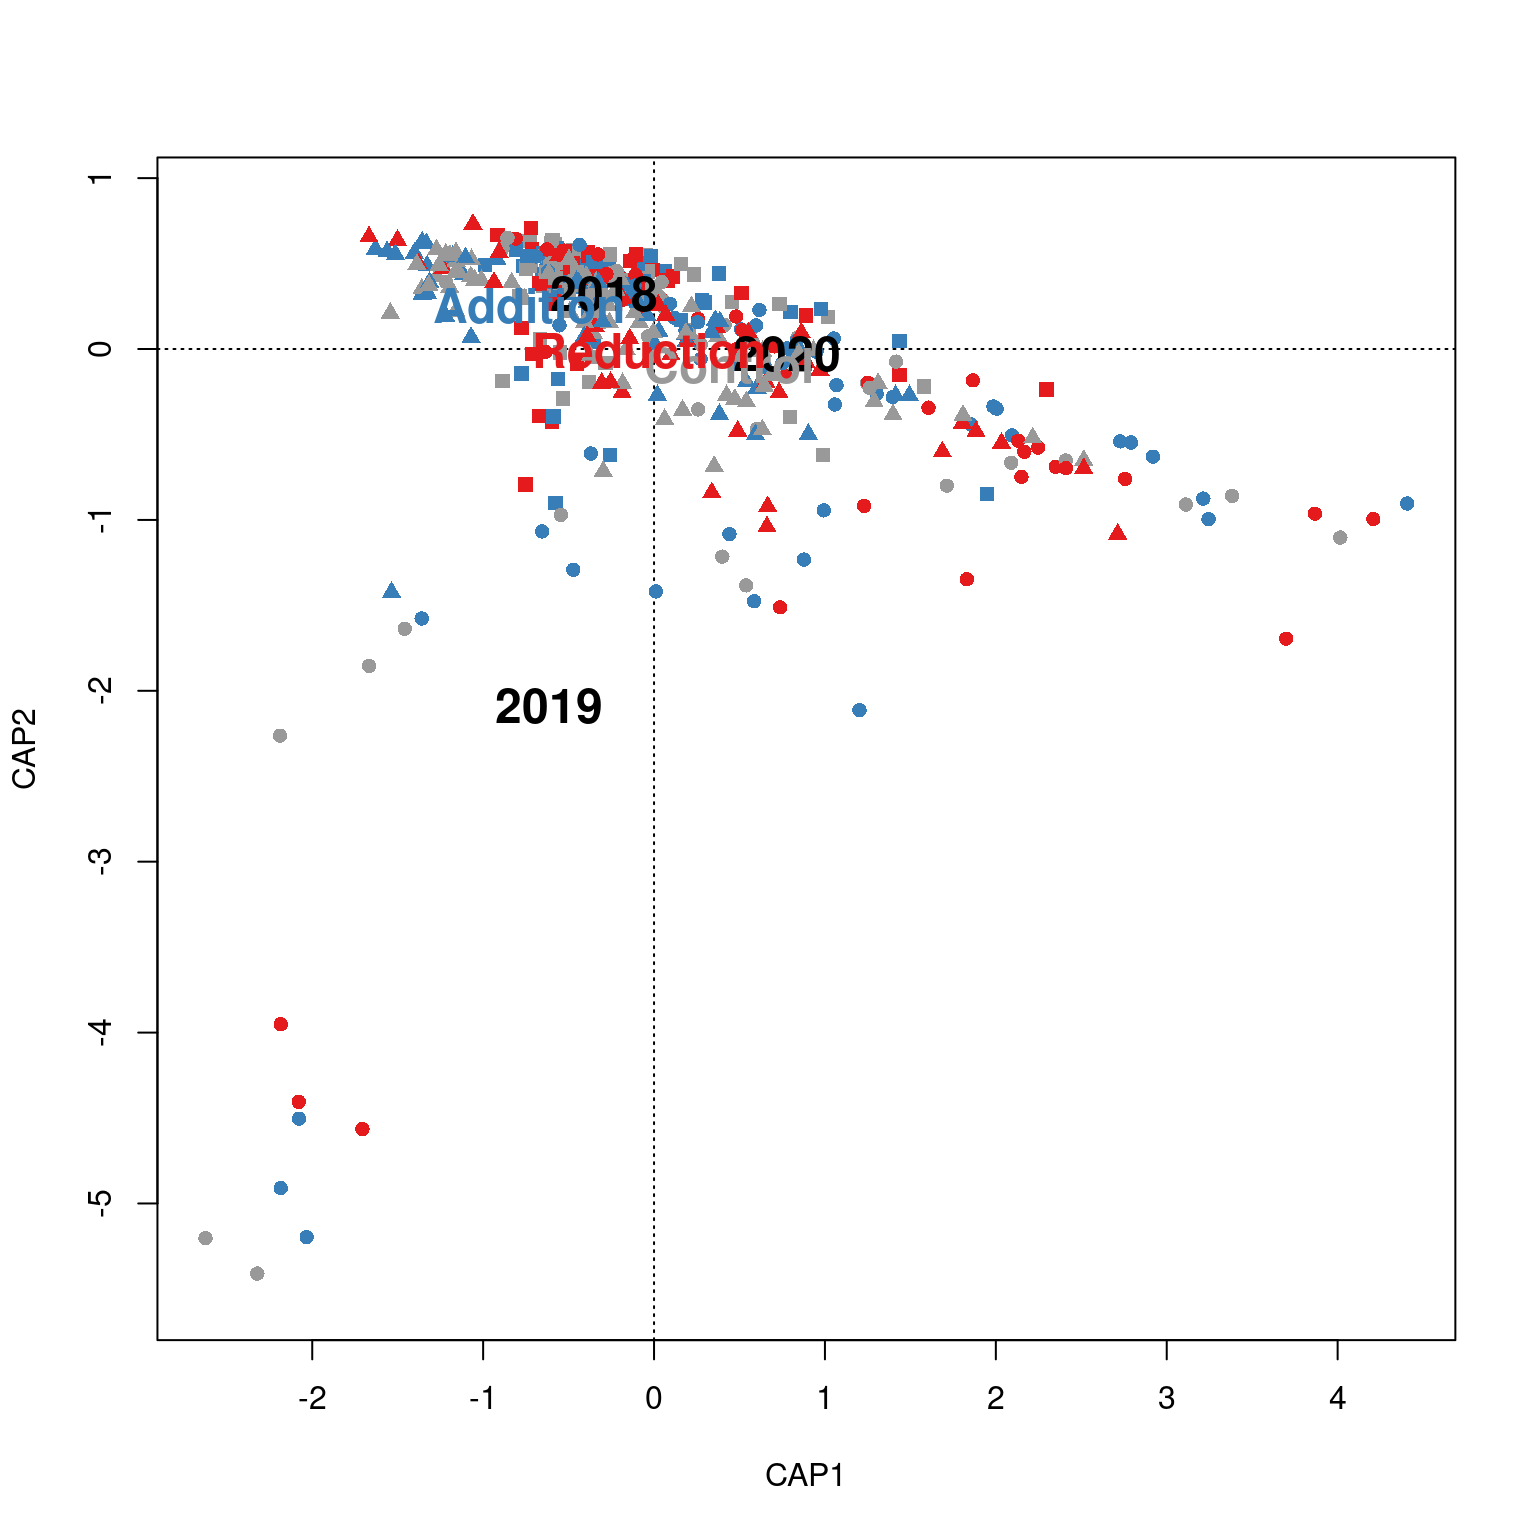
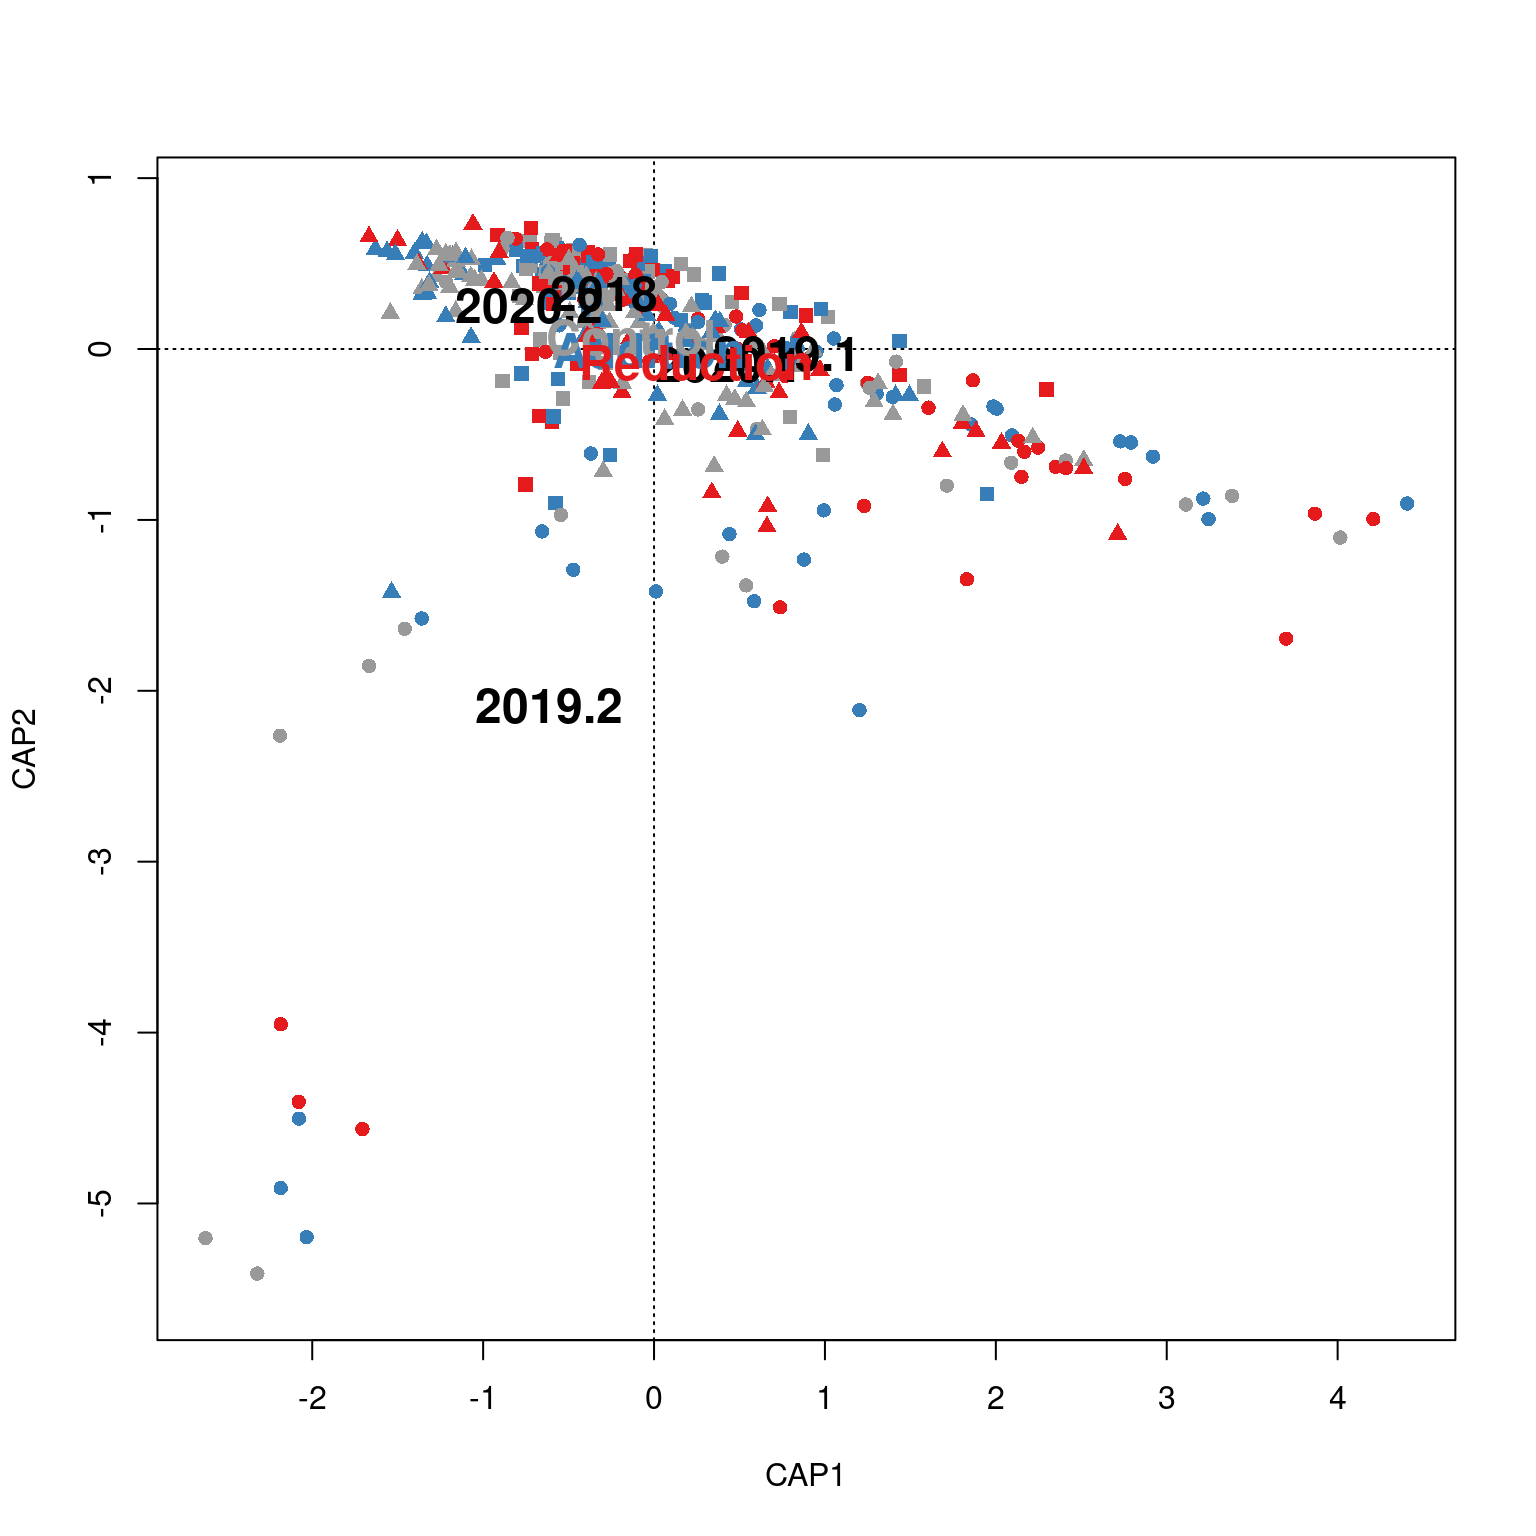
Split up selection gradients by year and water treatment

Changed region(s): [[0.2812, 0.1875, 0.5625, 0.25], [0.3125, 0.4375, 0.4062, 0.4688]]

diff --git a/maxfield_volatiles2020.html b/maxfield_volatiles2020.html
@@ -1010,7 +1010,7 @@ Signif. codes:  0 &#39;***&#39; 0.001 &#39;**&#39; 0.01 &#39;*&#39; 0.05 &#39;.&
 <pre class="r"><code>scents.cap &lt;- capscale(sqrt(vols.good) ~ year.cluster + water, data=volsmeta)
 plot(scents.cap, type=&quot;n&quot;)
 points(scents.cap, display = &quot;sites&quot;, col=water_pal[volsmeta$water], pch=as.integer(volsmeta$year)+14)
-text(scents.cap, display=&quot;cn&quot;, labels=c(2018:2020, names(water_pal)), col=c(rep(&quot;black&quot;,3),water_pal), font=2, cex=1.5)</code></pre>
+text(scents.cap, display=&quot;cn&quot;, labels=c(unique(volsmeta$year.cluster), names(water_pal)), col=c(rep(&quot;black&quot;,5),water_pal), font=2, cex=1.5)</code></pre>
 <p><img src="images_volatiles2020/cap-1.png" width="768" /></p>
 <pre class="r"><code>plot(scents.cap, type=&quot;n&quot;)
 text(scents.cap, display=&quot;species&quot;, col=&quot;black&quot;, cex=0.5)</code></pre>
@@ -1117,7 +1117,7 @@ Signif. codes:  0 &#39;***&#39; 0.001 &#39;**&#39; 0.01 &#39;*&#39; 0.05 &#39;.&
   labs(x=&quot;Emissions&quot;, y=paste(traitnames.units[&quot;prop_infested&quot;], &quot;(&gt;4 fruits)&quot;), color=&quot;Year&quot;)+
   theme_bw()+scale_color_manual(values=year_pal) +
   scale_x_sqrt()</code></pre>
-<p><img src="images_volatiles2020/flies-1.png" width="768" /></p>
+<p><img src="images_volatiles2020/flies-1.png" width="1536" /></p>
 </div>
 <div id="selection-gradients" class="section level2">
 <h2>Selection gradients</h2>
@@ -1129,36 +1129,21 @@ Signif. codes:  0 &#39;***&#39; 0.001 &#39;**&#39; 0.01 &#39;*&#39; 0.05 &#39;.&
   data.frame(B = E %*% slopes$A,
              SE = sqrt(E ^ 2 %*% slopes$SE ^ 2)) %&gt;% rownames_to_column(&quot;trait&quot;)
 }
-plot_beta &lt;- function(beta) {
-  beta %&gt;% mutate(trait = fct_reorder(trait, B)) %&gt;% 
-    ggplot(aes(y=trait, x = B, xmin=B-SE, xmax=B+SE)) + 
-    geom_vline(xintercept=0)+ geom_pointrange() + 
-    labs(x = &quot;Selection gradient (beta) estimated from gradients on PCs&quot;, y = &quot;Trait&quot;)
-}
 
-vols.std &lt;- bind_cols(volsmeta, vols.good.top) %&gt;% left_join(mnps.plantyr %&gt;% select(year, plotid, plant, seeds_est)) %&gt;% 
+selection_pca &lt;- function(year.cluster, water) {
+vols.std &lt;- bind_cols(volsmeta, vols.good.top) %&gt;% 
+  filter(year.cluster == .env$year.cluster, water %in% .env$water) %&gt;% 
+  left_join(mnps.plantyr %&gt;% select(year, plotid, plant, seeds_est)) %&gt;% 
   select(all_of(ipogood.top),seeds_est, any_of(names(treatments))) %&gt;% 
   mutate(across(all_of(ipogood.top), ~ (.x-mean(.x, na.rm=T))/sd(.x, na.rm=T))) %&gt;% 
   group_by(year) %&gt;% mutate(seeds_rel = seeds_est/mean(seeds_est, na.rm=T), .keep=&quot;unused&quot;) %&gt;% ungroup %&gt;% 
-  drop_na(all_of(ipogood.top)) 
+  drop_na(seeds_rel) %&gt;% 
+  select(where(~sum(is.na(.))==0))  #drop_na(all_of(ipogood.top)) 
 
 # Run PCA on traits
-vols.PCA &lt;- vols.std %&gt;% select(ipogood.top) %&gt;% prcomp() 
-summary(vols.PCA) # PCs 1 - 5 explain 51% of the variation</code></pre>
-<pre><code>Importance of components:
-                         PC1   PC2    PC3    PC4    PC5    PC6    PC7    PC8
-Standard deviation     2.067 1.531 1.2627 1.1541 1.0723 1.0663 1.0177 0.9913
-Proportion of Variance 0.214 0.117 0.0797 0.0666 0.0575 0.0568 0.0518 0.0491
-Cumulative Proportion  0.214 0.331 0.4107 0.4773 0.5348 0.5917 0.6434 0.6926
-                          PC9   PC10   PC11   PC12   PC13   PC14   PC15   PC16
-Standard deviation     0.9337 0.8997 0.8325 0.8149 0.7778 0.7267 0.6974 0.6312
-Proportion of Variance 0.0436 0.0405 0.0347 0.0332 0.0302 0.0264 0.0243 0.0199
-Cumulative Proportion  0.7362 0.7766 0.8113 0.8445 0.8748 0.9012 0.9255 0.9454
-                         PC17   PC18   PC19   PC20
-Standard deviation     0.5878 0.5379 0.4951 0.4605
-Proportion of Variance 0.0173 0.0145 0.0123 0.0106
-Cumulative Proportion  0.9627 0.9771 0.9894 1.0000</code></pre>
-<pre class="r"><code>vols.PCA.E &lt;- vols.PCA$rotation[,1:5]
+vols.PCA &lt;- vols.std %&gt;% select(any_of(ipogood.top)) %&gt;% prcomp() 
+summary(vols.PCA) # PCs 1 - 5 explain 51% of the variation
+vols.PCA.E &lt;- vols.PCA$rotation[,1:5]
 vols.std.PCA &lt;- bind_cols(vols.std, as.data.frame(vols.PCA$x))
 
 # Regress relative fitness on PCs
@@ -1166,30 +1151,28 @@ vols.PCA.regression &lt;- lm(seeds_rel ~ PC1 + PC2 + PC3 + PC4 + PC5, data = vol
 vols.PCA.slopes &lt;- tidy(vols.PCA.regression) %&gt;% filter(term != &quot;(Intercept)&quot;) %&gt;% rename(A=estimate, SE=std.error)
 
 # Convert selection gradients on PCs to gradients on traits
-(vols.beta &lt;- calculate_beta(vols.PCA.E, vols.PCA.slopes))</code></pre>
-<pre><code>                                          trait          B       SE
-1  (1R)-2,6,6-Trimethylbicyclo[3.1.1]hept-2-ene -0.0001042 0.015642
-2                                 Caryophyllene  0.0117606 0.010312
-3                            3-Hexen-1-ol, (E)-  0.0104764 0.010460
-4                                .beta.-Myrcene  0.0173326 0.012863
-5                                   Longifolene  0.0258287 0.016890
-6                    E-11,13-Tetradecadien-1-ol  0.0144715 0.009766
-7                                .beta.-Ocimene -0.0123586 0.018406
-8                                    Petasitene -0.0142328 0.010482
-9                             Methyl salicylate  0.0320474 0.021518
-10                     Octane, 2,4,6-trimethyl-  0.0132307 0.024524
-11                                 Benzophenone  0.0246730 0.013793
-12                  3-Hexen-1-ol, acetate, (E)- -0.0119041 0.021693
-13                              2-Hexenal, (E)-  0.0112502 0.013257
-14                          (E)-4-Oxohex-2-enal -0.0128014 0.017529
-15         Butanoic acid, 3-hexenyl ester, (Z)- -0.0030220 0.015433
-16                                     Linalool  0.0324134 0.021402
-17       Butanoic acid, 2-methyl-, methyl ester  0.0287673 0.020830
-18                                      Acetoin -0.0138973 0.023629
-19                         1-Butanol, 3-methyl-  0.0178677 0.016136
-20                                   1-Pentanol -0.0167735 0.013504</code></pre>
-<pre class="r"><code>plot_beta(vols.beta)</code></pre>
-<p><img src="images_volatiles2020/gradients-1.png" width="768" /></p>
+calculate_beta(vols.PCA.E, vols.PCA.slopes)
+}
+
+plot_beta &lt;- function(betas, colorby=&quot;year.cluster&quot;) {
+  betas %&gt;% mutate(trait = fct_reorder(trait, B)) %&gt;% 
+    ggplot(aes(y=trait, x = B, xmin=B-SE, xmax=B+SE)) + 
+    geom_vline(xintercept=0)+ geom_pointrange(aes_string(color=colorby), position=position_dodge(width=0.5)) + 
+    labs(x = &quot;Selection gradient (beta) estimated from gradients on PCs&quot;, y = &quot;Trait&quot;)
+}
+
+vols.beta.yr &lt;- map_dfr(set_names(unique(volsmeta$year.cluster)), 
+                     ~ selection_pca(.x, names(water_pal)), .id=&quot;year.cluster&quot;)
+plot_beta(vols.beta.yr)</code></pre>
+<p><img src="images_volatiles2020/gradients-1.png" width="1344" /></p>
+<pre class="r"><code>vols.beta.water &lt;- expand_grid(year.cluster=unique(volsmeta$year.cluster), water=names(water_pal))  %&gt;% 
+  mutate(betas = pmap(., selection_pca)) %&gt;% unnest(betas)
+plot_beta(filter(vols.beta.water, year.cluster==&quot;2018&quot;), colorby=&quot;water&quot;) + 
+  scale_color_manual(values=water_pal) + ggtitle(&quot;2018&quot;)</code></pre>
+<p><img src="images_volatiles2020/gradients-2.png" width="1344" /></p>
+<pre class="r"><code>plot_beta(filter(vols.beta.water), colorby=&quot;water&quot;) + 
+  scale_color_manual(values=water_pal) + facet_wrap(vars(year.cluster), nrow=1)</code></pre>
+<p><img src="images_volatiles2020/gradients-3.png" width="1344" /></p>
 </div>
 </div>
 <div id="volatiles-vs.-floral-traits" class="section level1">
